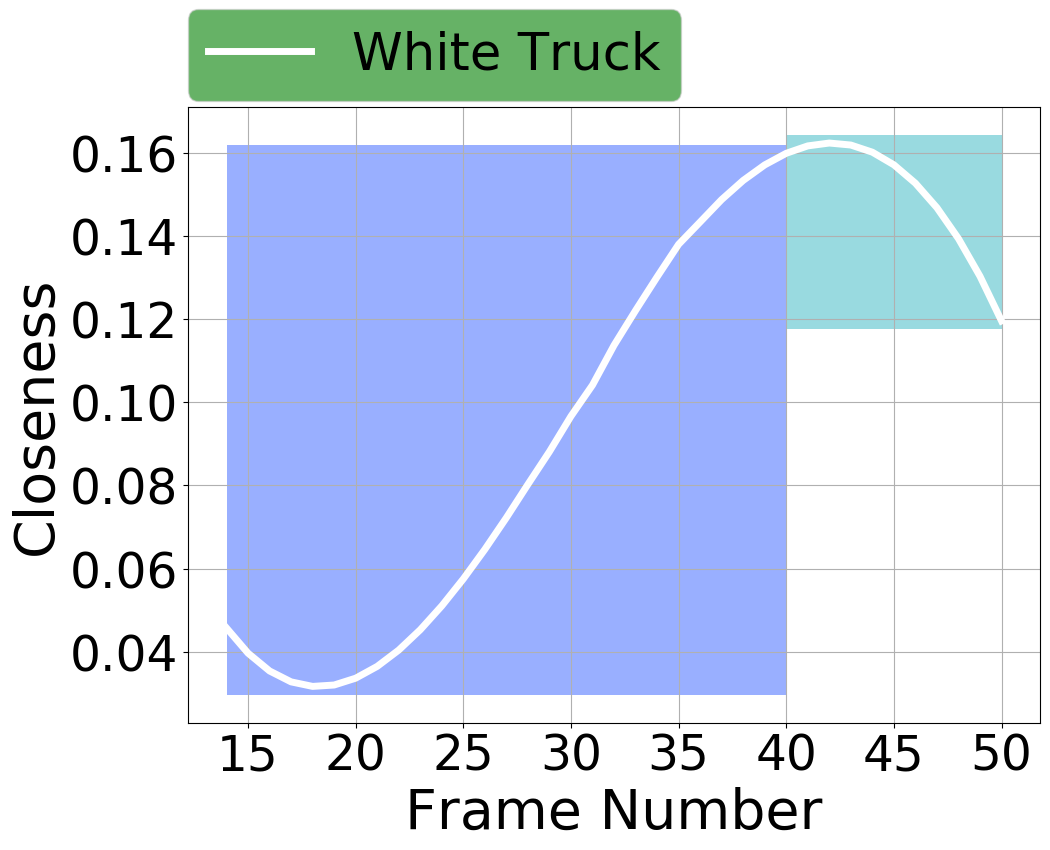
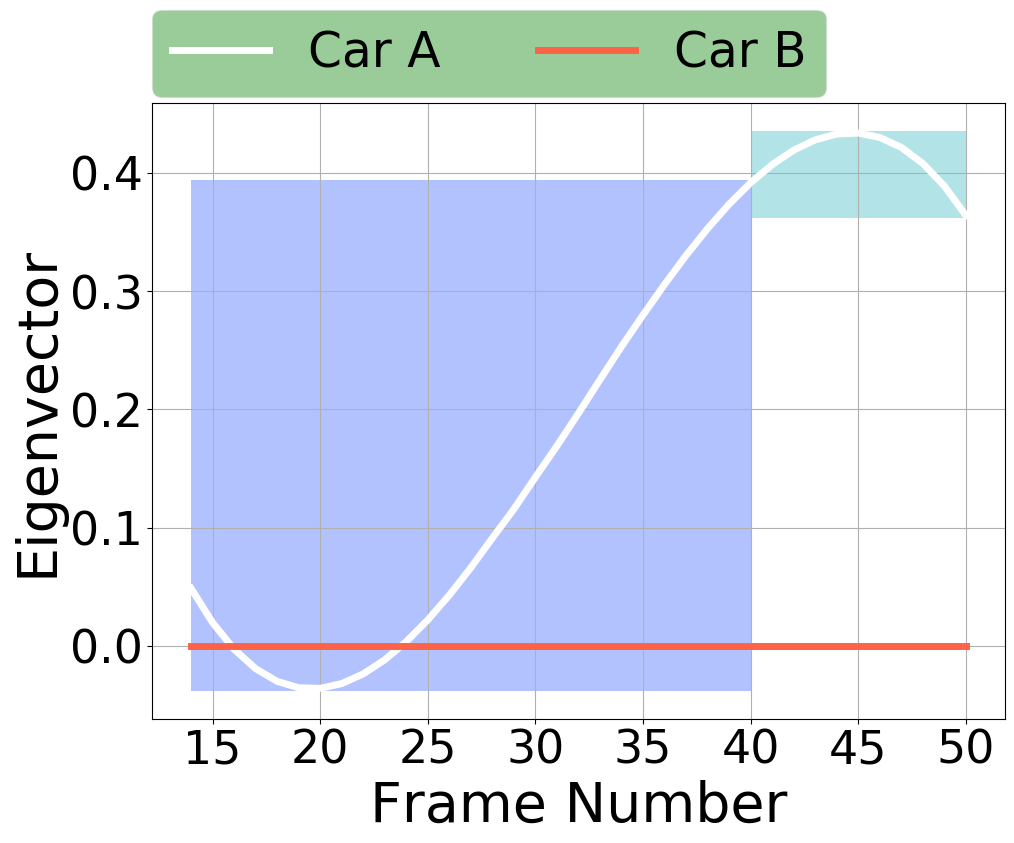
bug fixes

diff --git a/closeness_demo.py b/closeness_demo.py
@@ -19,8 +19,8 @@ cen_num: 0:closeness (num == 0,20,21,22), 1:degree (num == 1 and 6), 2: eigenvec
 
 color:   Turn on region coloring
 '''
-num = 0
-cen_num = 0
+num = 8
+cen_num = 2
 color = True
 
 # ================================================================================================
@@ -45,15 +45,15 @@ sets = ['4',                        # 0
         '5_55_47',                  # 8
         '10']                       # 9 (not operational at the moment)
 frames = [[0, 60], [47, 80], [[55, 95], [70, 98]],
-          [52, 98], [14, 50], [59, 85], [65, 72], [[50, 100], [9, 35]],
+          [52, 98], [14, 50], [59, 85], [65, 72], [[50, 98], [9, 35]],
           [58, 90]]
 agent_IDs = [983, 2677, [2810, 2958, 2959], 1336, 3494, 1295, 1786, [[2562], [2564]], 1750]
 radius = [10, 20, 10, 20, 20, 10, 10, 10, 10]
 agent_labels = ['Black Car', 'White Car', 'White Car', 'White Bus',
                 'White Truck', 'White Lorry', 'Motorbike', 'Scooter', 'Scooter']
 centrality_labels = ['Closeness Centrality Value', 'Degree Centrality Value', 'Eigenvector Centrality Value']
-thresholds = [[0, 35, 60], [47, 61, 80], [], [52, 73, 98], [14, 40, 50],
-              [59, 75, 85], [65, 68, 72], [[50, 75, 100], [9, 18, 35]], [58, 80, 90]]
+thresholds = [[0, 35, 60], [47, 61, 80], [[55,80, 95],[55,80, 95],[55,80, 95]], [52, 73, 98], [14, 40, 50],
+              [59, 75, 85], [65, 68, 72], [[50, 75, 98], [9, 18, 35]], [58, 80, 90]]
 
 video_set = sets[num]
 frame = frames[num] if (num != 2 and num != 7) else frames[num][agent_num]
@@ -125,9 +125,9 @@ if len(agent_label.split()) > 1:
     agent_color = agent_label.split()[0]
 else:
     agent_color = 'Gold'
-ax.plot(x, y, linewidth=LineThick, label=agent_label, color=agent_color)
+ax.plot(x, y, linewidth=LineThick, label='Car A', color=agent_color)
 if num == 0:
-    ax.plot(range(frame[0], frame[1]+1), weave_list, linewidth=LineThick, label='Red Car', color='Tomato')
+    ax.plot(range(frame[0], frame[1]+1), weave_list, linewidth=LineThick, label='Car B', color='Tomato')
 if color:
     for i in range(0, len(x_lims) - 1):
         ax.fill_between([x_lims[i], x_lims[i + 1]],
@@ -147,7 +147,7 @@ legend = plt.legend(loc='lower left', bbox_to_anchor=(0, 1.01), ncol=2,
 # frame = legend.get_frame()
 # frame.set_facecolor('green')
 # frame.set_edgecolor('red')
-plt.savefig(video_set + '_' + agent_label + '.png', bbox_inches='tight')
+plt.savefig('images/' + video_set + '_' + agent_label + '.png', bbox_inches='tight')
 
 # plt.plot(range(frame[0], frame[1]+1), weave_list2, linewidth= LineThick, label=agent_label )
 # if num==0:
